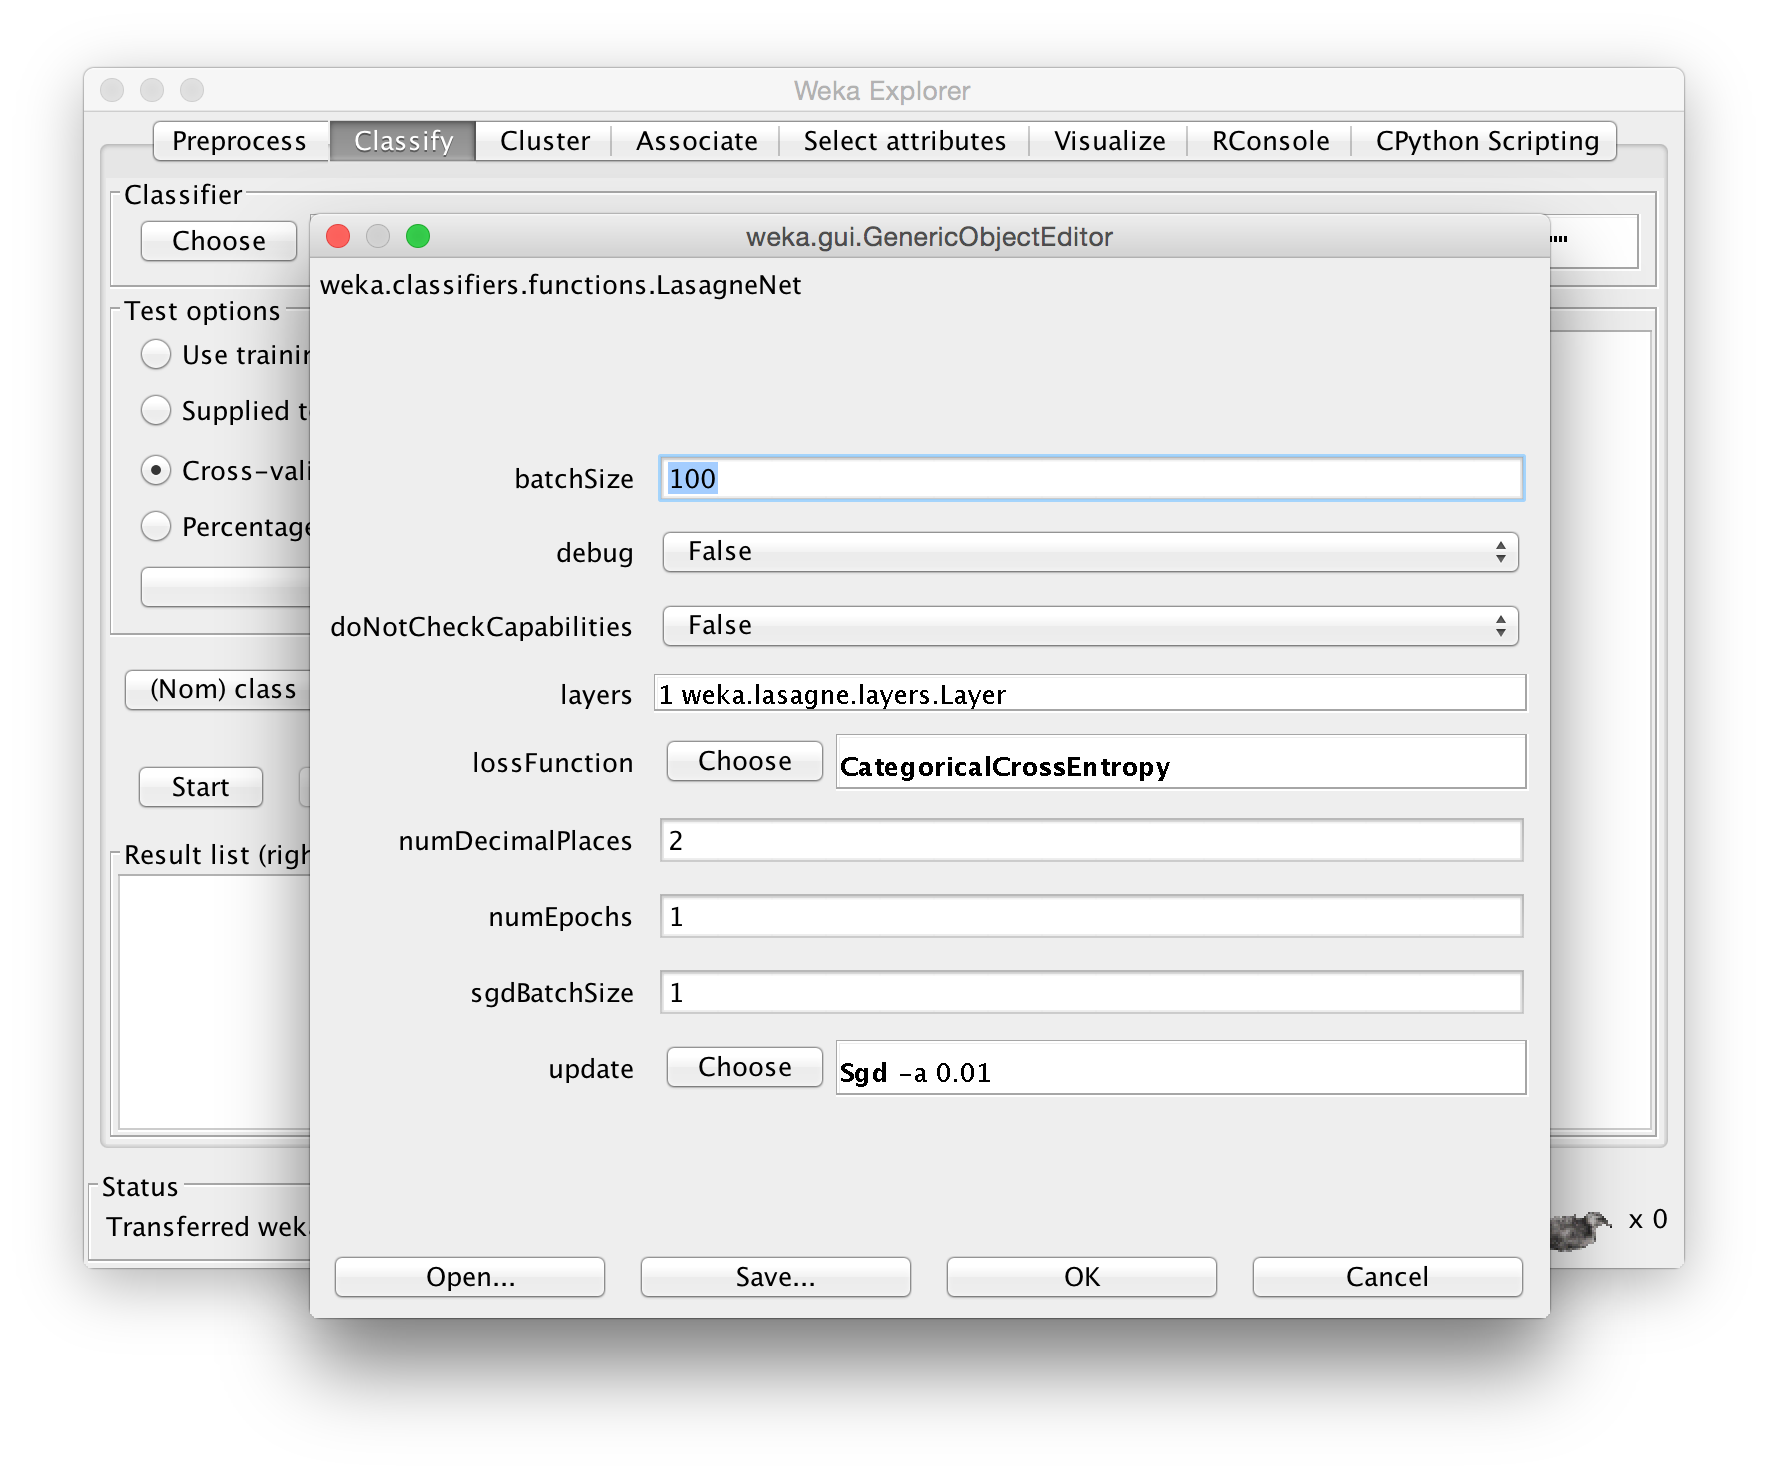
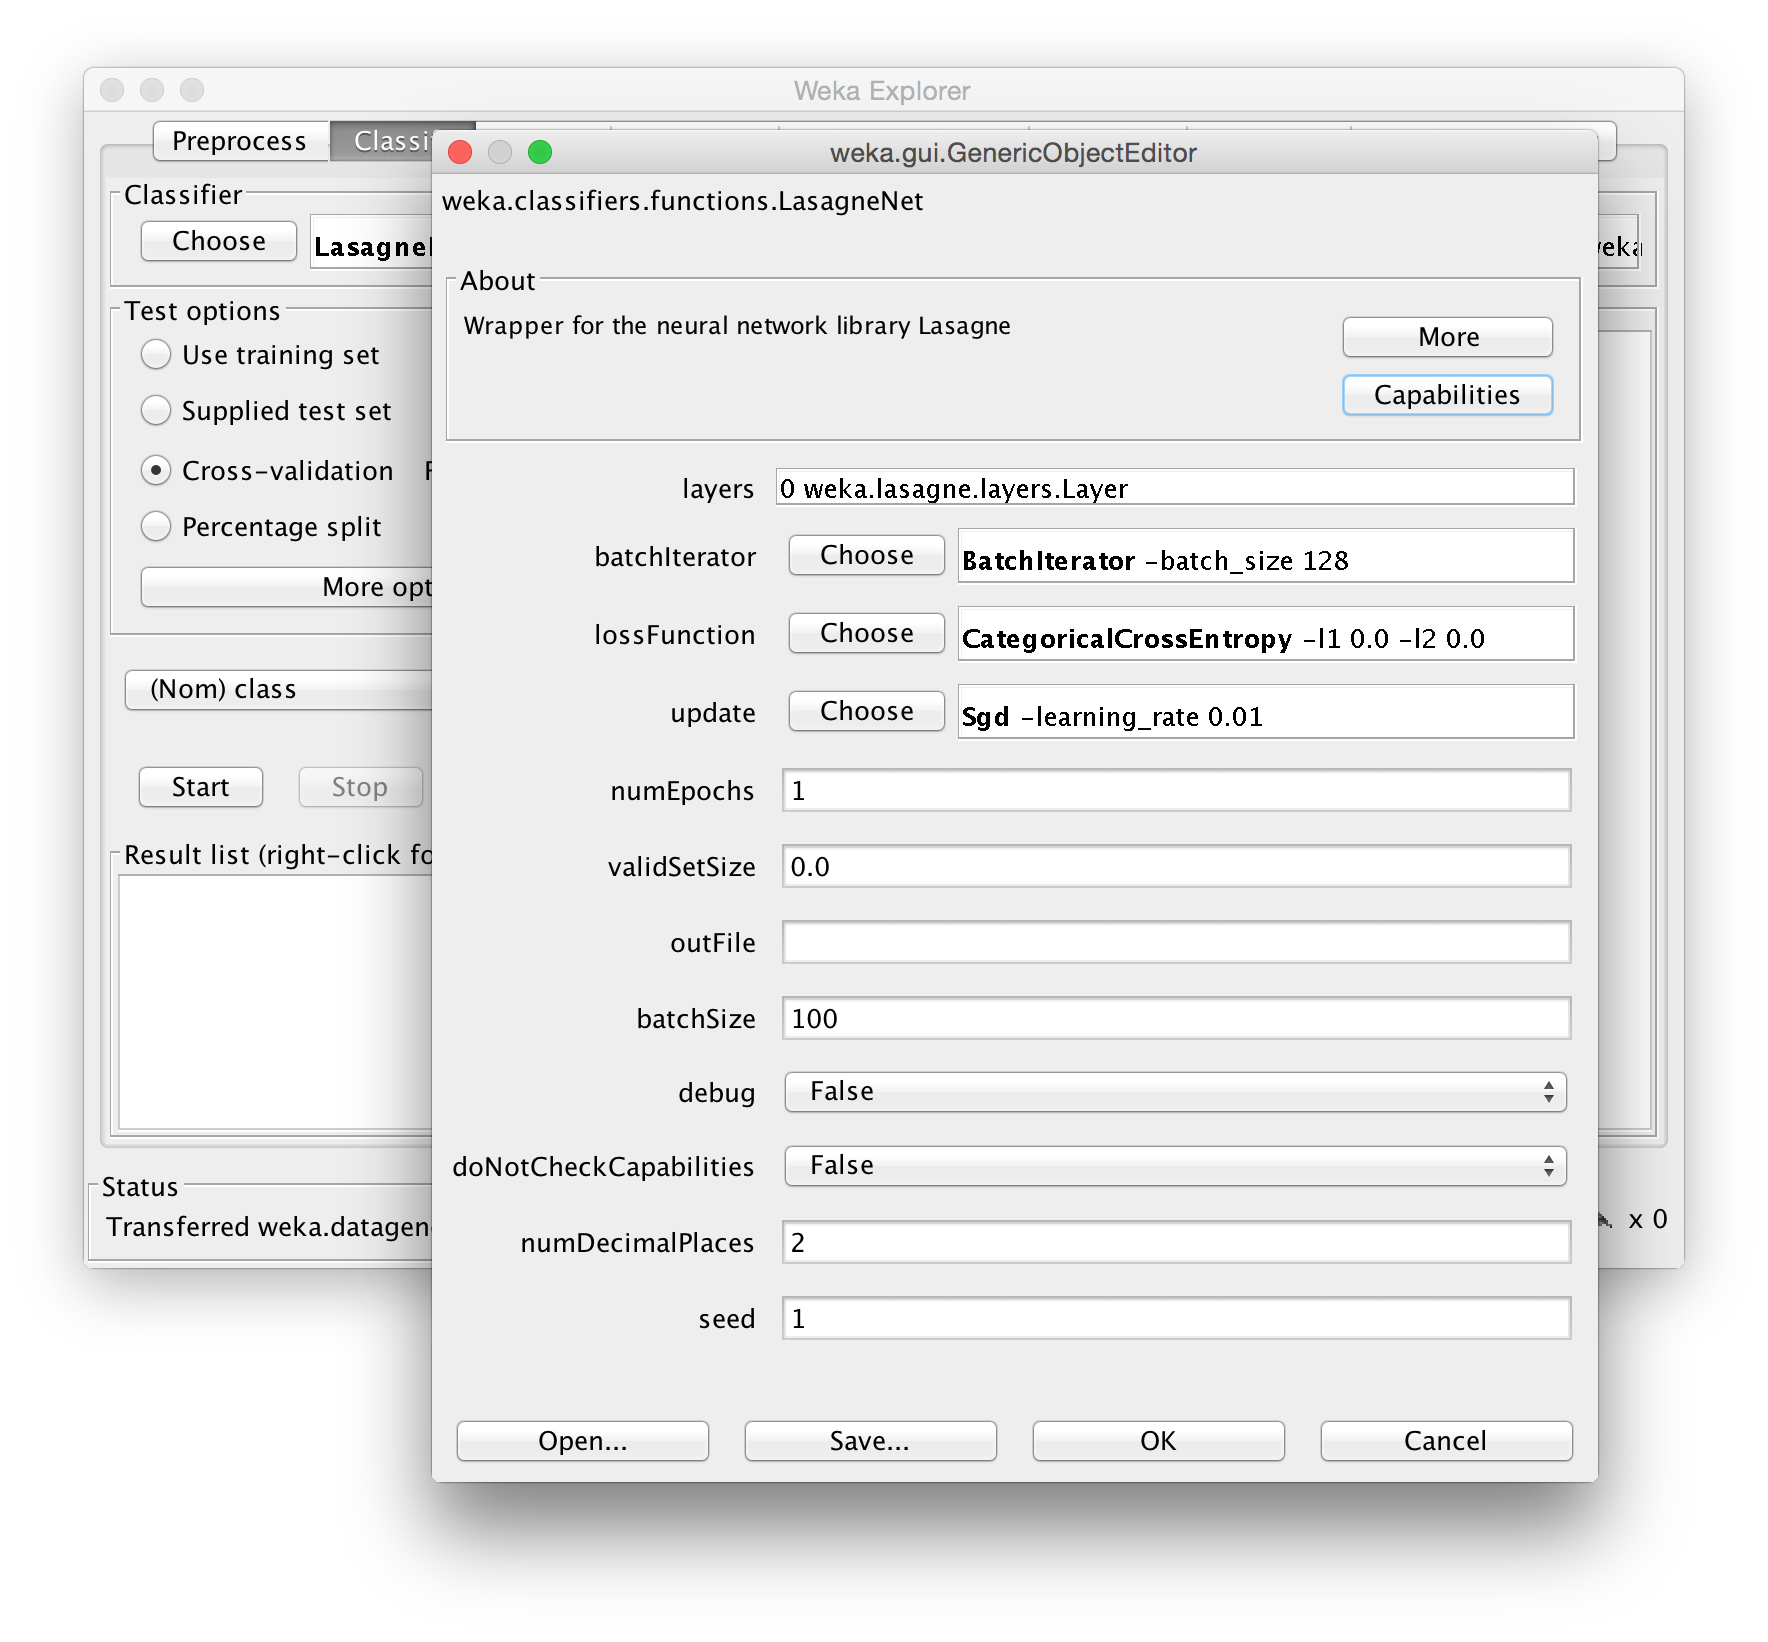
satisfies base tests now

Changed region(s): [[0.0311, 0.0311, 0.9644, 0.9648]]

diff --git a/src/main/java/weka/classifiers/functions/LasagneNet.java b/src/main/java/weka/classifiers/functions/LasagneNet.java
@@ -5,20 +5,19 @@ import java.io.File;
 import java.io.InputStream;
 import java.io.InputStreamReader;
 import java.io.PrintWriter;
-import java.net.URI;
-import java.nio.file.Files;
-import java.nio.file.Paths;
-import java.util.List;
 import java.util.Vector;
 
-import weka.classifiers.AbstractClassifier;
 import weka.classifiers.RandomizableClassifier;
 import weka.classifiers.pyscript.PyScriptClassifier;
 import weka.core.BatchPredictor;
+import weka.core.Capabilities;
+import weka.core.CapabilitiesHandler;
 import weka.core.Instance;
 import weka.core.Instances;
 import weka.core.OptionHandler;
+import weka.core.OptionMetadata;
 import weka.core.Utils;
+import weka.core.Capabilities.Capability;
 import weka.lasagne.Constants;
 import weka.lasagne.layers.DenseLayer;
 import weka.lasagne.layers.Layer;
@@ -30,19 +29,23 @@ import weka.lasagne.updates.Sgd;
 import weka.lasagne.updates.Update;
 import weka.nolearn.AbstractBatchIterator;
 import weka.nolearn.BatchIterator;
-import weka.nolearn.ImageBatchIterator;
 
-public class LasagneNet extends RandomizableClassifier implements BatchPredictor {
+public class LasagneNet extends RandomizableClassifier implements BatchPredictor, CapabilitiesHandler {
 
 	private static final long serialVersionUID = 1125617871340073201L;
 	
-	private float m_validSetSize = 0.0f;
+	public String globalInfo() {
+		return "Wrapper for the neural network library Lasagne";
+	}
 	
-	public void setValidSetSize(float validSetSize) {
+	private double m_validSetSize = 0.0f;
+	
+	public void setValidSetSize(double validSetSize) {
 		m_validSetSize = validSetSize;
 	}
 	
-	public float getValidSetSize() {
+	@OptionMetadata(description = "Validation set size", displayName = "validSetSize", displayOrder=6)
+	public double getValidSetSize() {
 		return m_validSetSize;
 	}
 	
@@ -52,12 +55,14 @@ public class LasagneNet extends RandomizableClassifier implements BatchPredictor
 		m_layers = layers;
 	}
 	
+	@OptionMetadata(description = "Layers", displayName = "layers", displayOrder=1)
 	public Layer[] getLayers() {
 		return m_layers;
 	}
 	
 	private AbstractBatchIterator m_batchIterator = new BatchIterator();
 	
+	@OptionMetadata(description = "Batch iterator", displayName = "batchIterator", displayOrder=2)
 	public AbstractBatchIterator getBatchIterator() {
 		return m_batchIterator;
 	}
@@ -70,6 +75,7 @@ public class LasagneNet extends RandomizableClassifier implements BatchPredictor
 	
 	private int m_numEpochs = DEFAULT_NUM_EPOCHS;
 	
+	@OptionMetadata(description = "Number of epochs", displayName = "numEpochs", displayOrder=5)
 	public int getNumEpochs() {
 		return m_numEpochs;
 	}
@@ -80,6 +86,14 @@ public class LasagneNet extends RandomizableClassifier implements BatchPredictor
 	
 	private PyScriptClassifier m_cls = new PyScriptClassifier();
 	
+	@Override
+	public Capabilities getCapabilities() {
+		Capabilities c = m_cls.getCapabilities();
+		c.disable(Capability.MISSING_VALUES);
+		c.disable(Capability.MISSING_CLASS_VALUES);
+		return c;
+	}
+	
 	/*
 	 * Loss functions
 	 */
@@ -88,6 +102,7 @@ public class LasagneNet extends RandomizableClassifier implements BatchPredictor
 	
 	private Objective m_lossFunction = DEFAULT_LOSS_FUNCTION;
 	
+	@OptionMetadata(description = "Loss function", displayName = "lossFunction", displayOrder=3)
 	public Objective getLossFunction() {
 		return m_lossFunction;
 	}
@@ -104,7 +119,7 @@ public class LasagneNet extends RandomizableClassifier implements BatchPredictor
 	
 	private Update m_update = DEFAULT_UPDATE;
 	
-	
+	@OptionMetadata(description = "Update", displayName = "update", displayOrder=4)
 	public Update getUpdate() {
 		return m_update;
 	}
@@ -119,7 +134,7 @@ public class LasagneNet extends RandomizableClassifier implements BatchPredictor
 
 	private String m_dumpScript = null;
 	
-	public String getDumpScript() {
+	public String dumpScript() {
 		return m_dumpScript;
 	}
 	
@@ -129,6 +144,7 @@ public class LasagneNet extends RandomizableClassifier implements BatchPredictor
 	
 	private String m_outFile = "";
 	
+	@OptionMetadata(description = "Output file for training statistics", displayName = "outFile", displayOrder=7)
 	public String getOutFile() {
 		return m_outFile;
 	}
@@ -239,10 +255,16 @@ public class LasagneNet extends RandomizableClassifier implements BatchPredictor
 	public void checkConfiguration(Instances data) throws Exception {
 		// if the problem is a regression, then the loss must be squared error
 		if( data.numClasses() == 1 && !(getLossFunction() instanceof RegressionObjective) ) {
-			throw new Exception("Bad loss function! Use a regression loss (such as squared error)");
+			System.err.println("Error: classification loss being used for a regression problem");
+			System.err.println("Changing loss to SquaredError...");
+			setLossFunction( new SquaredError() );
+			//throw new Exception("Bad loss function! Use a regression loss (such as squared error)");
 		}
 		if( data.numClasses() > 1 && getLossFunction() instanceof RegressionObjective ) {
-			throw new Exception("Bad loss function! Use a regression loss (such as squared error)");
+			System.err.println("Error: regression loss being used for a classification problem");
+			System.err.println("Changing loss to CategoricalCrossEntropy...");
+			setLossFunction( new CategoricalCrossEntropy() );
+			//throw new Exception("Bad loss function! Use a regression loss (such as squared error)");
 		}
 	}
 	
@@ -250,6 +272,7 @@ public class LasagneNet extends RandomizableClassifier implements BatchPredictor
 	public void buildClassifier(Instances data) throws Exception {
 		
 		checkConfiguration(data);
+		getCapabilities().testWithFail(data);
 		
 		m_cls = new PyScriptClassifier();
 		m_cls.setPrintStdOut(true);
@@ -276,8 +299,8 @@ public class LasagneNet extends RandomizableClassifier implements BatchPredictor
 		pw.close();
 		//System.out.println(code);
 		
-		if( getDumpScript() != null ) {
-			pw = new PrintWriter( new File(getDumpScript()) );
+		if( dumpScript() != null ) {
+			pw = new PrintWriter( new File(dumpScript()) );
 			pw.write( getOutputString(data) );
 			pw.flush();
 			pw.close();

diff --git a/src/test/java/weka/classifiers/functions/LasagneNetTestBase.java b/src/test/java/weka/classifiers/functions/LasagneNetTestBase.java
@@ -1,0 +1,21 @@
+package weka.classifiers.functions;
+
+import weka.classifiers.AbstractClassifierTest;
+import weka.classifiers.Classifier;
+import weka.lasagne.objectives.AutoLoss;
+
+public class LasagneNetTestBase extends AbstractClassifierTest {
+
+	public LasagneNetTestBase(String name) {
+		super(name);
+	}
+
+	@Override
+	public Classifier getClassifier() {
+		LasagneNet net = new LasagneNet();
+		net.setLossFunction(new AutoLoss());
+		net.setDebug(false);
+		return net;
+	}
+
+}

diff --git a/src/test/java/weka/lasagne/objectives/AutoLoss.java b/src/test/java/weka/lasagne/objectives/AutoLoss.java
@@ -1,0 +1,14 @@
+package weka.lasagne.objectives;
+
+import weka.lasagne.objectives.Objective;
+
+public class AutoLoss extends Objective {
+	
+	private static final long serialVersionUID = 4159114208513688897L;
+	
+	@Override
+	public String getOutputString() {
+		String base = super.getOutputString();
+		return base + ";kw[\"objective_loss_function\"] = squared_error if args[\"regression\"] else categorical_crossentropy";
+	}
+}

diff --git a/src/resource/learner_nolearn.py b/src/resource/learner_nolearn.py
@@ -13,6 +13,7 @@ import os
 import numpy as np
 import sys
 import re
+import random
 try:
     from cStringIO import StringIO
 except ImportError:
@@ -22,6 +23,8 @@ def get_net(args):
     ##GET_NET##
     
 def train(args):
+    np.random.seed( args["seed"] )
+    random.seed( args["seed"] )
     if args["regression"]:
         y_train = np.asarray(args["y_train"], dtype="float32")
     else:
